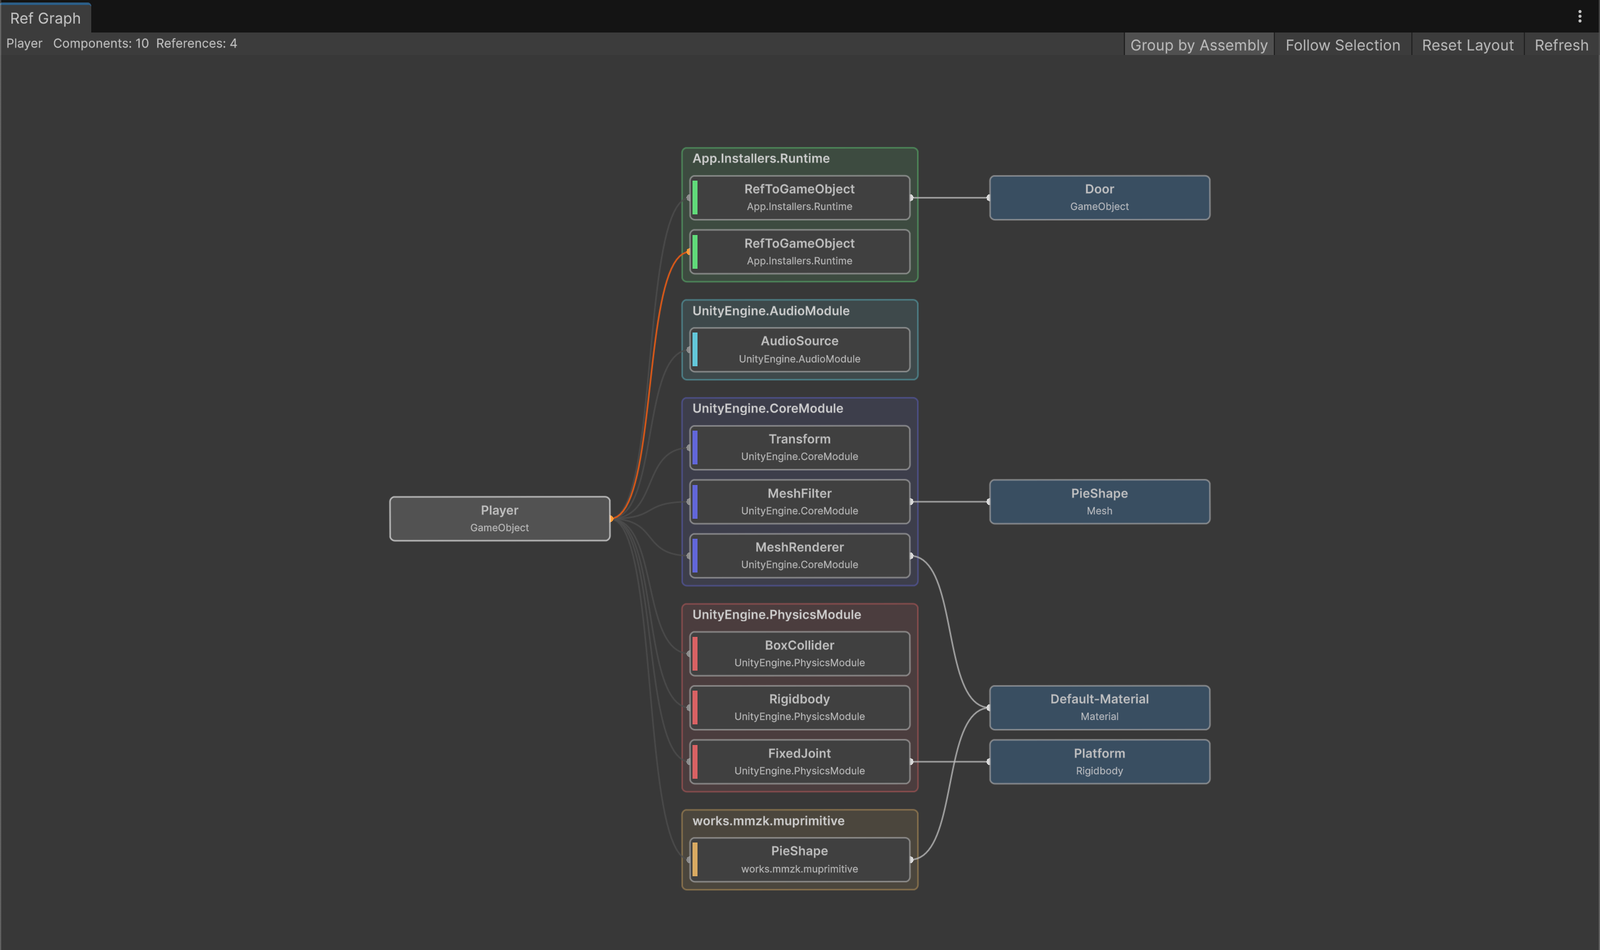
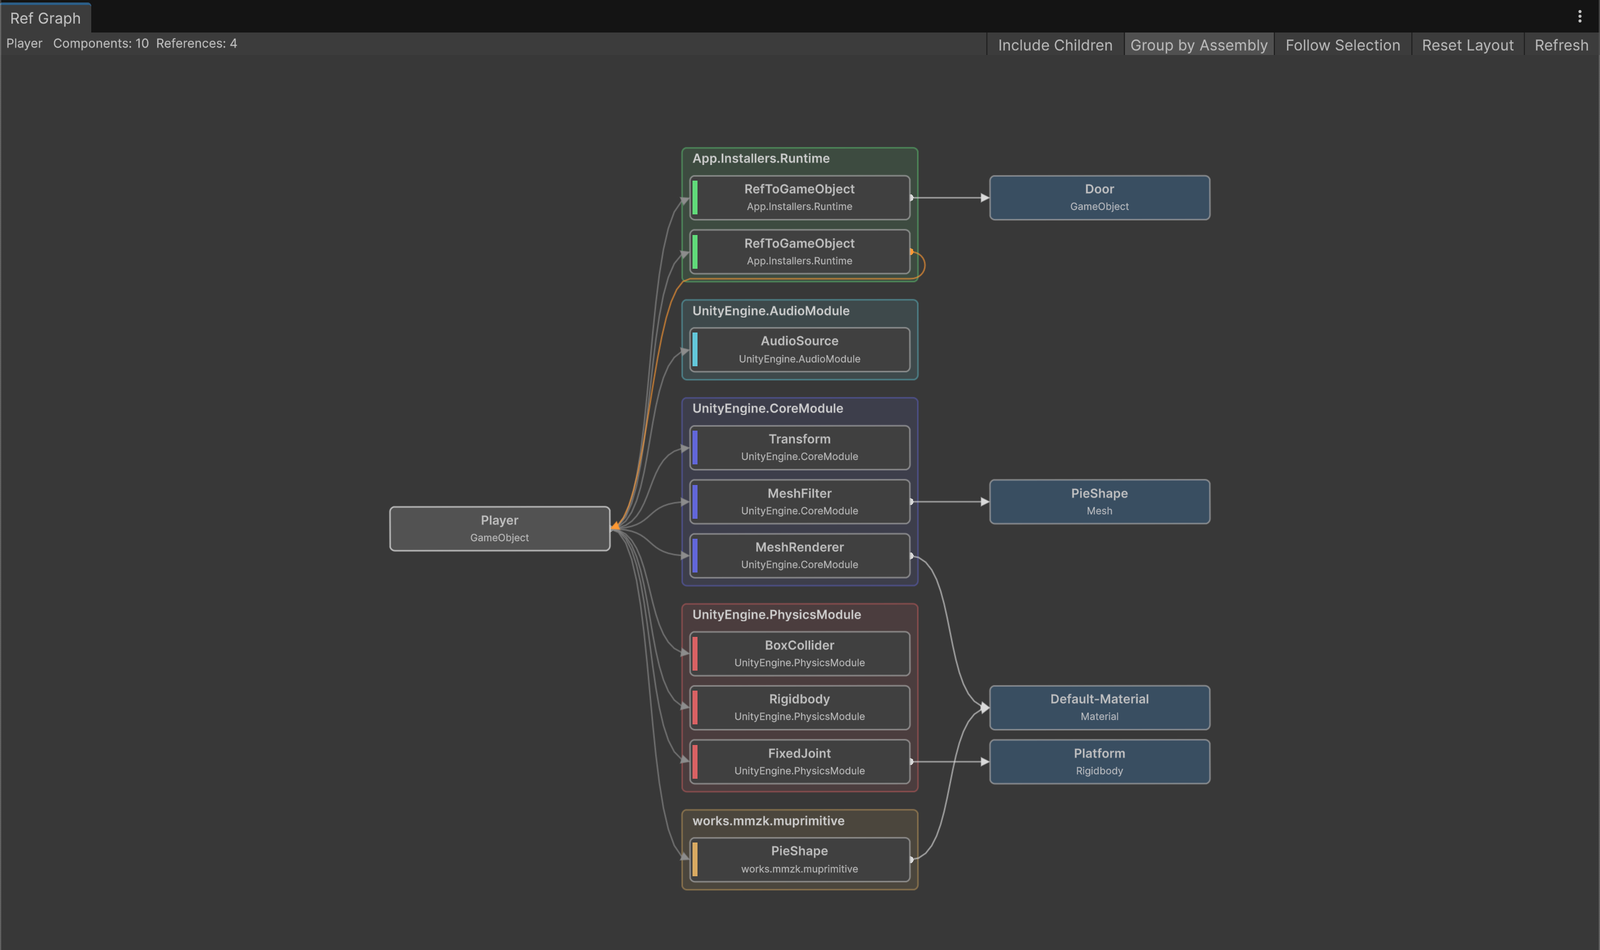
doc(murefgraph): README のスクショを矢印付きに撮り直し、Include Children の画像を追加

Changed region(s): [[0.25, 0.4884, 0.4062, 0.6105], [0.4062, 0.2747, 0.4375, 0.3968], [0.625, 0.0305, 0.6875, 0.0611]]

diff --git a/Assets/UnityPackages/works.mmzk.murefgraph/README.ja.md b/Assets/UnityPackages/works.mmzk.murefgraph/README.ja.md
@@ -50,6 +50,8 @@ Project で Prefab を選んで `Assets/Open Ref Graph` から開けます。
 
 ツールバーの `Include Children` を有効にすると、子孫の GameObject とその Component もグラフに含めます。
 
+![子 GameObject を含めたグラフ](Documentation~/img/children.png)
+
 - 子の GameObject は左の列に Hierarchy の順で、深さに応じて字下げして並びます。親子は Hierarchy ウィンドウのようなツリー型の緑の線でつながります。
 - 子の Component の下段には、持ち主の GameObject 名が付きます。
 - 子や子の Component への参照は、参照先ノードではなく、その子のノードへの線になります。

diff --git a/Assets/UnityPackages/works.mmzk.murefgraph/README.md b/Assets/UnityPackages/works.mmzk.murefgraph/README.md
@@ -50,6 +50,8 @@ Drag nodes to rearrange them, and pan and zoom to see the whole graph. Double-cl
 
 Turn on `Include Children` on the toolbar to add descendant GameObjects and their components to the graph.
 
+![Graph including child GameObjects](Documentation~/img/children.png)
+
 - Child GameObjects are listed in the left column in Hierarchy order, indented by depth and connected to their parent with green tree lines like the Hierarchy window.
 - The second line of a child's component shows the name of the GameObject that owns it.
 - References to a child or one of its components are drawn to that child's node instead of a separate reference node.
